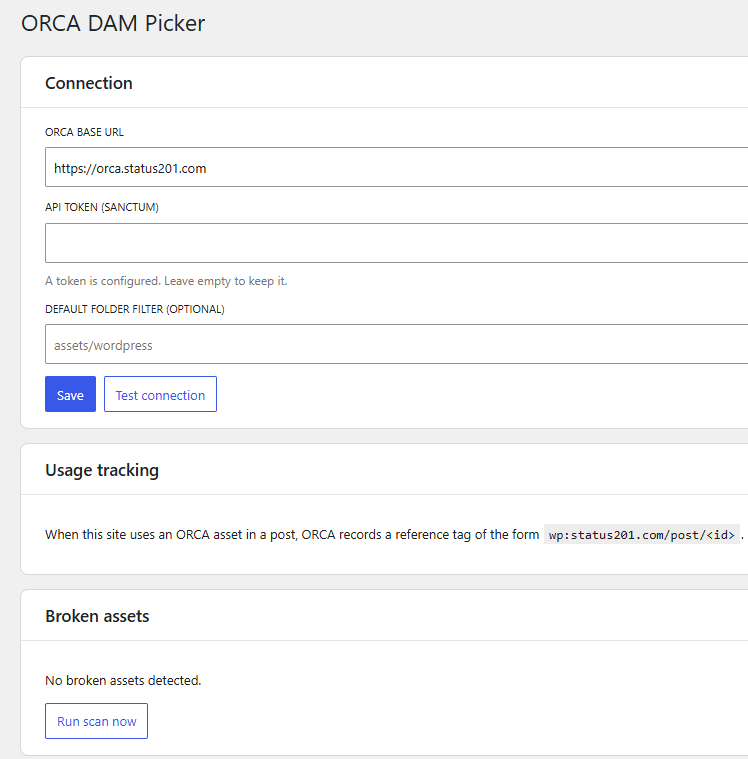
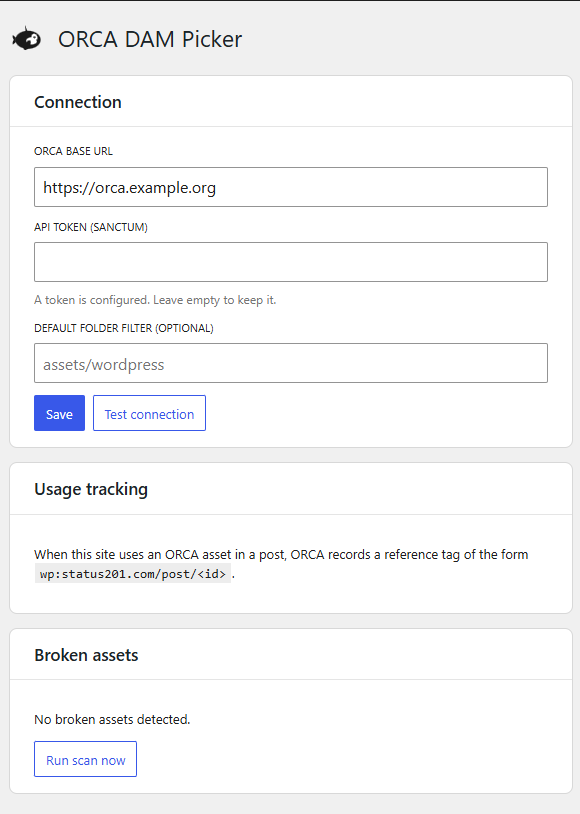
[TWEAK] WP plugin details modal: fresher screenshots, picker now included
Replace the stale settings screenshot with the post-0.4.0 one (logo
in the title bar) and add a picker screenshot showing the current UI
in action (logo + search + folder filter + sort + selection grid).
The picker shot runs above the settings shot in the Description tab
because it's the more visually striking of the two.

Bump to 0.4.3.

diff --git a/wordpress-plugin/src/Updater/PluginDetailsContent.php b/wordpress-plugin/src/Updater/PluginDetailsContent.php
@@ -18,16 +18,17 @@ final class PluginDetailsContent
     public static function sections(): array
     {
         $logoUrl = plugins_url('assets/orca-logo.svg', ORCA_DAM_PICKER_FILE);
+        $pickerScreenshot = plugins_url('assets/screenshot-picker.png', ORCA_DAM_PICKER_FILE);
         $settingsScreenshot = plugins_url('assets/screenshot-settings.png', ORCA_DAM_PICKER_FILE);
 
         return [
-            'description'  => self::description($logoUrl, $settingsScreenshot),
-            'installation' => self::installation(),
+            'description'  => self::description($logoUrl, $pickerScreenshot, $settingsScreenshot),
+            'installation' => self::installation($settingsScreenshot),
             'changelog'    => self::changelog(),
         ];
     }
 
-    private static function description(string $logoUrl, string $settingsScreenshot): string
+    private static function description(string $logoUrl, string $pickerScreenshot, string $settingsScreenshot): string
     {
         $card = 'padding:16px;border:1px solid #dcdcde;border-radius:6px;background:#f6f7f7;';
         $featureRow = 'display:flex;align-items:flex-start;gap:10px;margin:0 0 10px 0;';
@@ -86,12 +87,15 @@ final class PluginDetailsContent
 </dl>
 
 <h4>What it looks like</h4>
-<p style="color:#50575e;margin-bottom:8px;">Settings → ORCA DAM:</p>
+<p style="color:#50575e;margin:0 0 8px 0;">The picker, inside the WordPress media frame:</p>
+<img src="{$pickerScreenshot}" alt="ORCA DAM picker inside the WordPress media frame" style="max-width:100%;border:1px solid #dcdcde;border-radius:4px;margin-bottom:20px;" />
+
+<p style="color:#50575e;margin:0 0 8px 0;">Settings → ORCA DAM:</p>
 <img src="{$settingsScreenshot}" alt="ORCA DAM settings page" style="max-width:100%;border:1px solid #dcdcde;border-radius:4px;" />
 HTML;
     }
 
-    private static function installation(): string
+    private static function installation(string $settingsScreenshot): string
     {
         return <<<HTML
 <h4>1. Install the plugin</h4>
@@ -117,6 +121,7 @@ HTML;
     <li>Optional: set a <strong>Default folder filter</strong> to scope the picker to one folder by default.</li>
     <li>Click <strong>Save</strong> → then <strong>Test connection</strong>. A green "Connected to ORCA." banner means you're done.</li>
 </ol>
+<img src="{$settingsScreenshot}" alt="ORCA DAM settings page" style="max-width:100%;border:1px solid #dcdcde;border-radius:4px;margin:8px 0 20px 0;" />
 
 <h4>4. Optional hardening</h4>
 <p>Add the following constant to <code>wp-config.php</code> to derive the credentials-encryption key from a dedicated secret instead of <code>AUTH_KEY</code>:</p>

diff --git a/wordpress-plugin/orca-dam-picker.php b/wordpress-plugin/orca-dam-picker.php
@@ -3,7 +3,7 @@
  * Plugin Name:       ORCA DAM Picker
  * Plugin URI:        https://github.com/status201/orca-dam
  * Description:       Browse and insert assets from ORCA DAM directly inside WordPress. Tracks usage automatically via ORCA reference tags.
- * Version:           0.4.2
+ * Version:           0.4.3
  * Requires at least: 6.4
  * Requires PHP:      8.1
  * Author:            Studyflow
@@ -19,7 +19,7 @@ defined('ABSPATH') || exit;
 define('ORCA_DAM_PICKER_FILE', __FILE__);
 define('ORCA_DAM_PICKER_DIR', plugin_dir_path(__FILE__));
 define('ORCA_DAM_PICKER_URL', plugin_dir_url(__FILE__));
-define('ORCA_DAM_PICKER_VERSION', '0.4.2');
+define('ORCA_DAM_PICKER_VERSION', '0.4.3');
 
 $autoload = ORCA_DAM_PICKER_DIR . 'vendor/autoload.php';
 if (! file_exists($autoload)) {